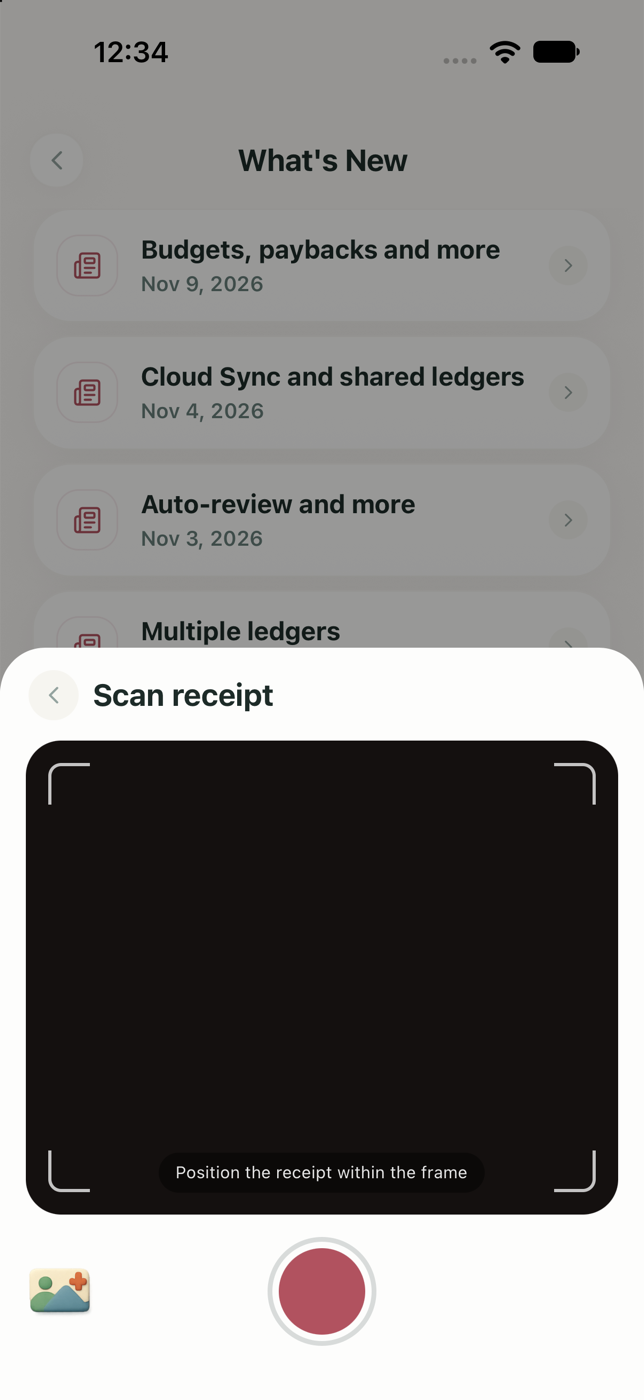
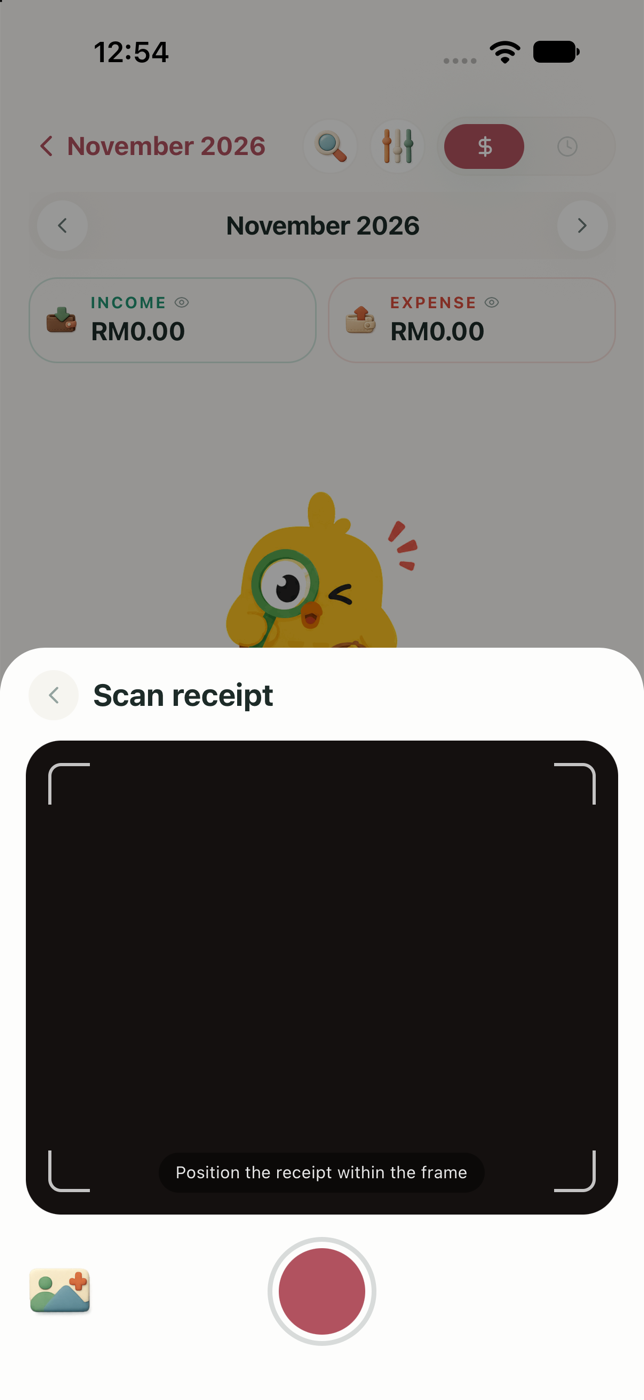
Fix review findings in announcement 25
- French and Italian quote the real Scan receipt button name; a test now
  checks every language against it.
- Scan receipts switches to the Calendar tab first, where the batch's
  progress card is, instead of leaving the user on Settings.
- One requestOpenBudget helper for the announcement, the Settings row and
  the budget deep link.
- Showcases use the budget money formatter and size the pick row from the
  number of picks; a test pins the one-template free limit the copy assumes.

diff --git a/apps/mobile/features/news/components/BudgetsSplitsScansArchiveShowcases.tsx b/apps/mobile/features/news/components/BudgetsSplitsScansArchiveShowcases.tsx
@@ -23,7 +23,7 @@ import { I18n } from '~/lib/i18n';
 import { withColorAlpha } from '~/utils/color';
 import { formatDayHeaderParts } from '~/utils/dayHeader';
 import { monthCycleOf } from '~/utils/financialMonth';
-import { dayKeyFromDateLocal, formatAmount } from '~/utils/formatters';
+import { dayKeyFromDateLocal } from '~/utils/formatters';
 
 interface ShowcaseProps {
   width: number;
@@ -138,7 +138,7 @@ export function SplitPartPaymentsShowcase({ width }: ShowcaseProps) {
   const { settings } = useApp();
   const paid = SHARE_PAYMENTS.reduce((sum, amount) => sum + amount, 0);
   const owed = SHARE_TOTAL - paid;
-  const amount = (value: number) => formatAmount(value, { ...settings, displayMode: 'money' });
+  const amount = (value: number) => money(value, settings);
   // Payments on recent days, so the sample never shows a date to come.
   const day = (daysAgo: number) => {
     const date = new Date();
@@ -233,8 +233,9 @@ const BATCH_PICKS = SCANNED_RECEIPTS.length + 1;
 export function BatchScanShowcase({ width }: ShowcaseProps) {
   const colors = useThemeColors();
   const { settings } = useApp();
-  const amount = (value: number) => formatAmount(value, { ...settings, displayMode: 'money' });
-  const tile = Math.round((width - 3 * 8) / 4);
+  const amount = (value: number) => money(value, settings);
+  // One row of picks, 8pt apart.
+  const tile = Math.round((width - (BATCH_PICKS - 1) * 8) / BATCH_PICKS);
   return (
     <View className="gap-2.5" style={{ width }}>
       {/* The album picker's multi-select: numbered picks, in pick order. */}
@@ -368,11 +369,7 @@ export function ArchiveAccountsShowcase({ width }: ShowcaseProps) {
             CIMB Savings
           </Text>
           <Text variant="body" numberOfLines={1} className="text-foreground">
-            {formatAmount(
-              ARCHIVED_BALANCE,
-              { ...settings, displayMode: 'money' },
-              { showSign: false },
-            )}
+            {money(ARCHIVED_BALANCE, settings)}
           </Text>
         </View>
       </View>

diff --git a/apps/mobile/features/news/components/FeatureAnnouncementModal.tsx b/apps/mobile/features/news/components/FeatureAnnouncementModal.tsx
@@ -21,7 +21,7 @@ import { I18n } from '~/lib/i18n';
 import { paymentAlertCapturesRepository } from '~/lib/repositories/paymentAlertCapturesRepository';
 import { requestRunAddAction } from '~/services/addActionNavigation';
 import { triggerHaptic } from '~/services/haptics';
-import { requestFocusInsight } from '~/services/insightsNavigation';
+import { requestFocusInsight, requestOpenBudget } from '~/services/insightsNavigation';
 import { isNotificationAiAvailable } from '~/services/notificationAi';
 import { requestOpenPaymentAlerts } from '~/services/paymentAlertsNavigation';
 import { requestOpenTab } from '~/services/tabNavigation';
@@ -307,11 +307,12 @@ export function FeatureAnnouncementModal({
     openSettleUp: onOpenSettleUp,
     // Budget is an Insights page, and Scan receipt one of the + button's flows:
     // both are reached through their bridges, the same from every caller.
-    openBudget: () => {
-      requestOpenTab('insights');
-      requestFocusInsight('budget');
+    openBudget: requestOpenBudget,
+    // Calendar first: its banner is the card that shows the batch's progress.
+    openScanReceipt: () => {
+      requestOpenTab('calendar');
+      requestRunAddAction('scan');
     },
-    openScanReceipt: () => requestRunAddAction('scan'),
     // The review page is a root route, reached through its bridge from every
     // caller; without notification logging the button opens its setup instead.
     openNotificationReview: () => {

diff --git a/apps/mobile/features/settings/screens/SettingsStack.tsx b/apps/mobile/features/settings/screens/SettingsStack.tsx
@@ -22,7 +22,7 @@ import {
 } from '~/navigation/settingsStack';
 import { SHARED_NATIVE_STACK_OPTIONS } from '~/navigation/stackOptions';
 import { createNativeStackSwipeHapticListeners } from '~/navigation/swipeBackHaptics';
-import { requestFocusInsight } from '~/services/insightsNavigation';
+import { requestFocusInsight, requestOpenBudget } from '~/services/insightsNavigation';
 import { requestOpenPaymentAlerts } from '~/services/paymentAlertsNavigation';
 import { subscribeOpenSettingsScreenRequest } from '~/services/settingsNavigation';
 import { requestOpenTab } from '~/services/tabNavigation';
@@ -129,10 +129,7 @@ function SettingsHomeRoute({
       onOpenAppLock={() => navigation.navigate('AppLock')}
       onOpenReceipts={() => navigation.navigate('Receipts')}
       onOpenReimbursements={() => navigation.navigate('Reimbursements')}
-      onOpenBudget={() => {
-        requestOpenTab('insights');
-        requestFocusInsight('budget');
-      }}
+      onOpenBudget={requestOpenBudget}
       onOpenWidgets={() => navigation.navigate('Widgets')}
       onOpenWidgetPreviews={__DEV__ ? () => navigation.navigate('WidgetPreviews') : undefined}
       onOpenProPaywall={onOpenProPaywall}

diff --git a/apps/mobile/services/deepLinks.ts b/apps/mobile/services/deepLinks.ts
@@ -6,7 +6,7 @@ import { clampSessionHours } from '~/features/widgets/lib/liveEarnings';
 import type { RootStackParamList } from '~/navigation/rootStack';
 import { requestRunAddAction } from '~/services/addActionNavigation';
 import { AnalyticsEvents, trackEvent } from '~/services/analytics';
-import { requestFocusInsight } from '~/services/insightsNavigation';
+import { requestFocusInsight, requestOpenBudget } from '~/services/insightsNavigation';
 import {
   clearPendingLiveEarningsStart,
   requestStartLiveEarnings,
@@ -109,10 +109,7 @@ export function handleMoney2TimeDeepLink(url: string, navigationRef: RootNavigat
   if (parsed.action === 'budget') {
     // Budget is an Insights page now, so open the Insights tab focused on it
     // rather than a dedicated screen.
-    runDeepLinkNavigation(navigationRef, null, () => {
-      requestOpenTab('insights');
-      requestFocusInsight('budget');
-    });
+    runDeepLinkNavigation(navigationRef, null, requestOpenBudget);
     void trackEvent(AnalyticsEvents.WIDGET_OPENED, { widget: 'budget' });
     return true;
   }

diff --git a/apps/mobile/__tests__/services/featureAnnouncementState.test.ts b/apps/mobile/__tests__/services/featureAnnouncementState.test.ts
@@ -87,6 +87,23 @@ describe('feature announcement state', () => {
     }
   });
 
+  it('names the real Scan receipt button in the batch scan page, in every language', () => {
+    for (const locale of SUPPORTED_LOCALE_FILES) {
+      const strings = loadLocale(locale);
+      const body: string = strings.news.budgets_splits_scans_archive.batchScan.body;
+      expect([locale, body]).toEqual([
+        locale,
+        expect.stringContaining(strings.add_action.scan_title),
+      ]);
+    }
+  });
+
+  it('says several budget periods need Pro only while the free plan allows one template', () => {
+    // The budgets page says "Running several periods at once is part of Pro" in
+    // every language. Raise the free limit and that sentence must change too.
+    expect(PRO_LIMITS.FREE_MAX_BUDGET_TEMPLATES).toBe(1);
+  });
+
   it('announces Cloud Sync, shared ledgers and Household insights on both platforms', () => {
     const latest = getFeatureAnnouncementById('cloud_sync_shared_ledgers_2026_11')!;
     expect(latest).toMatchObject({

diff --git a/apps/mobile/lib/i18n/locales/it.ts b/apps/mobile/lib/i18n/locales/it.ts
@@ -182,8 +182,8 @@ const it = {
         body: "Ora gli amici possono restituirti i soldi un po' alla volta. In Chi ti deve dei soldi, tocca Segna pagato e scrivi quanto hanno pagato. Il resto rimane da saldare, con una barra di avanzamento e l'elenco di ogni pagamento, e ogni pagamento conta nei tuoi conti appena arriva.",
       },
       batchScan: {
-        title: 'Scansiona tante ricevute insieme',
-        body: "Tocca Scansiona ricevuta, apri il tuo album e scegli fino a %{count} ricevute. Ognuna diventa una spesa a sé, con esercente, importo, data e categoria propri, mentre continui a usare l'app. Una scheda nella Home mostra a che punto è.",
+        title: 'Scansiona tanti scontrini insieme',
+        body: "Tocca Scansiona scontrino, apri il tuo album e scegli fino a %{count} scontrini. Ognuno diventa una spesa a sé, con esercente, importo, data e categoria propri, mentre continui a usare l'app. Una scheda nella Home mostra a che punto è.",
       },
       archive: {
         title: 'Archivia i conti',

diff --git a/apps/mobile/lib/i18n/locales/fr.ts b/apps/mobile/lib/i18n/locales/fr.ts
@@ -183,7 +183,7 @@ const fr = {
       },
       batchScan: {
         title: 'Scannez plusieurs reçus à la fois',
-        body: "Touchez Scanner le reçu, ouvrez votre album et choisissez jusqu'à %{count} reçus. Chacun devient une dépense à part, avec son marchand, son montant, sa date et sa catégorie, pendant que vous continuez à utiliser l'app. Une carte sur Accueil indique où en est le traitement.",
+        body: "Touchez Scanner un reçu, ouvrez votre album et choisissez jusqu'à %{count} reçus. Chacun devient une dépense à part, avec son marchand, son montant, sa date et sa catégorie, pendant que vous continuez à utiliser l'app. Une carte sur Accueil indique où en est le traitement.",
       },
       archive: {
         title: 'Archivez des comptes',

diff --git a/apps/mobile/services/insightsNavigation.ts b/apps/mobile/services/insightsNavigation.ts
@@ -1,3 +1,5 @@
+import { requestOpenTab } from '~/services/tabNavigation';
+
 type FocusInsightRequest = {
   insightType: string;
 };
@@ -27,4 +29,10 @@ export function subscribeFocusInsightRequest(listener: Listener) {
   return () => {
     listeners.delete(listener);
   };
+}
+
+/** Open the Budget page: an Insights page, so the Insights tab focused on it. */
+export function requestOpenBudget() {
+  requestOpenTab('insights');
+  requestFocusInsight('budget');
 }
